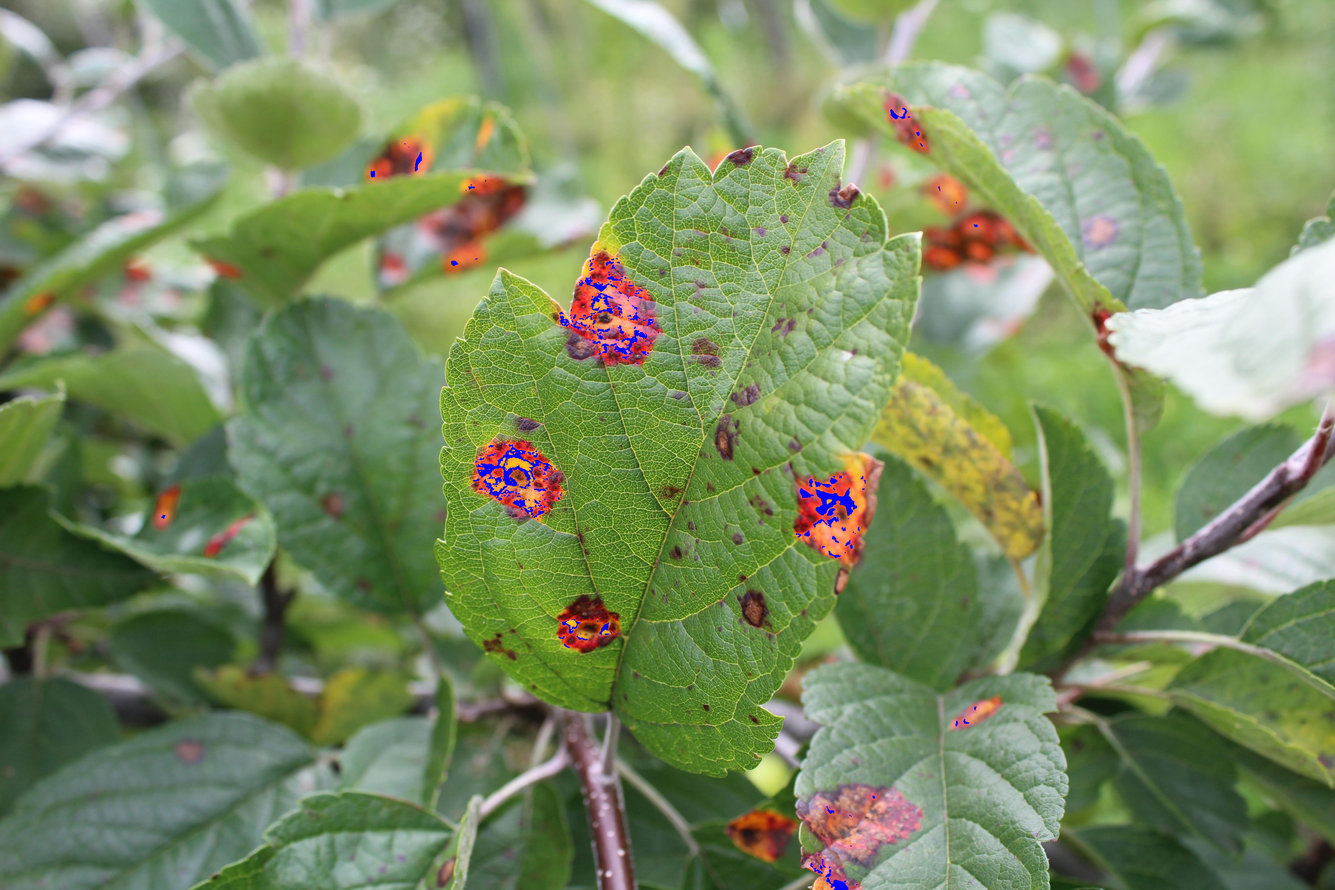
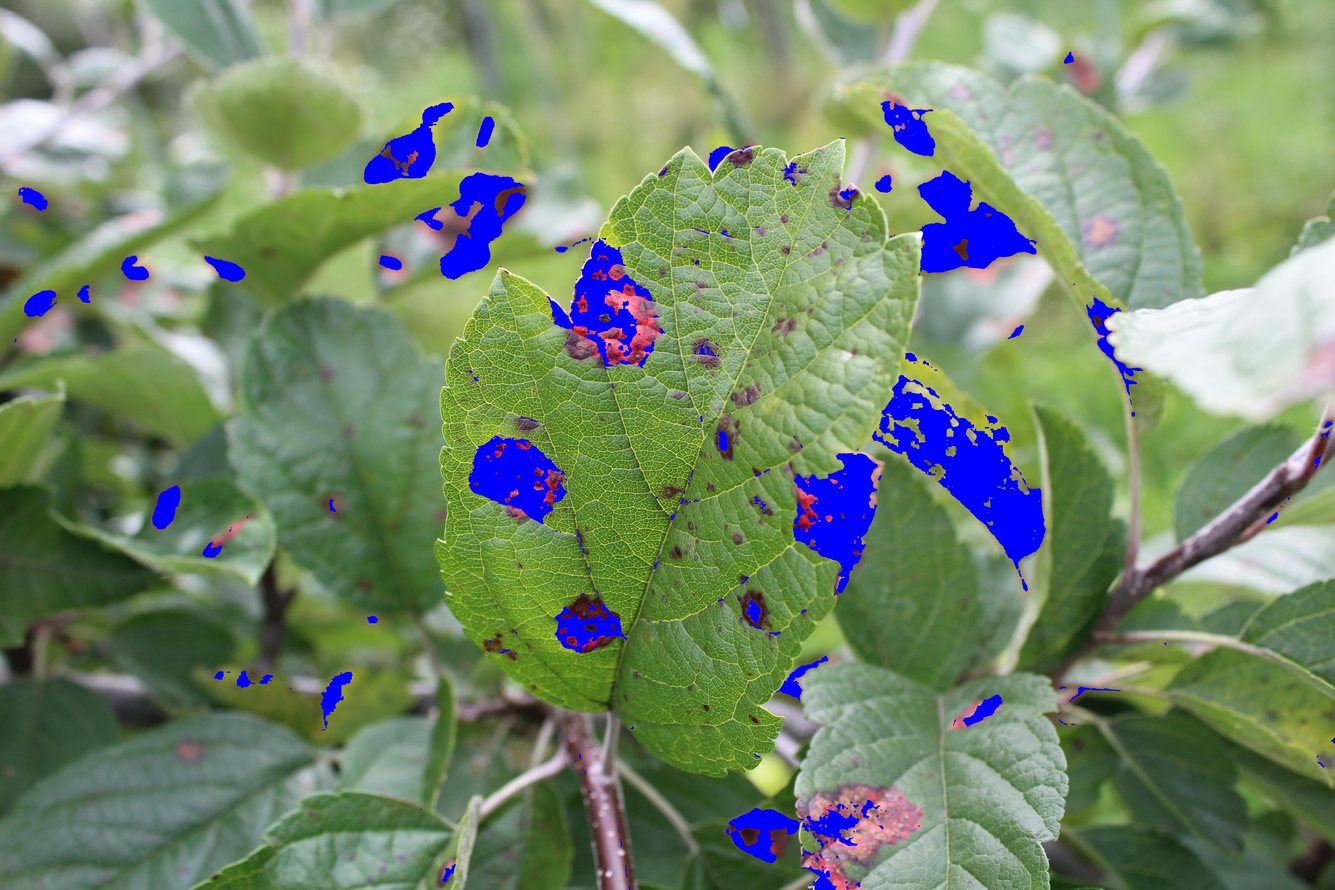
feat: enhance pattern detection with HSV tolerance adjustments and improved image processing

diff --git a/rust_pattern_detector.py b/rust_pattern_detector.py
@@ -6,12 +6,27 @@ from typing import List, Tuple
 class PatternDetector:
     def __init__(self):
         self.patterns: List[Tuple[np.ndarray, np.ndarray]] = []
-        self.tolerance = 30  # Faixa de tolerância para correspondência de cores
+        self.h_tolerance = 10  # Tolerância para matiz (Hue)
+        self.s_tolerance = 50  # Tolerância para saturação (Saturation)
+        self.v_tolerance = 50  # Tolerância para valor (Value)
 
     def add_pattern(self, color: np.ndarray):
-        """Adiciona um novo padrão de cor com faixas de tolerância."""
-        lower_bound = np.clip(color - self.tolerance, 0, 255)
-        upper_bound = np.clip(color + self.tolerance, 0, 255)
+        """Adiciona um novo padrão de cor com faixas de tolerância em HSV."""
+        # Ajusta as tolerâncias para cada canal HSV
+        lower_bound = np.array(
+            [
+                max(0, color[0] - self.h_tolerance),
+                max(0, color[1] - self.s_tolerance),
+                max(0, color[2] - self.v_tolerance),
+            ]
+        )
+        upper_bound = np.array(
+            [
+                min(179, color[0] + self.h_tolerance),  # Hue vai de 0 a 179 no OpenCV
+                min(255, color[1] + self.s_tolerance),
+                min(255, color[2] + self.v_tolerance),
+            ]
+        )
         self.patterns.append((lower_bound, upper_bound))
 
     def select_patterns(self, image_path: str):
@@ -21,21 +36,23 @@ class PatternDetector:
         if img is None:
             raise ValueError(f"Could not read image at {image_path}")
 
-        img_rgb = cv2.cvtColor(img, cv2.COLOR_BGR2RGB)
-        img_viz = img_rgb.copy()
+        img_hsv = cv2.cvtColor(img, cv2.COLOR_BGR2HSV)
+        img_viz = cv2.cvtColor(
+            img, cv2.COLOR_BGR2RGB
+        )  # Para visualização mantém em RGB
 
         def mouse_callback(event, x, y, flags, param):
             if event == cv2.EVENT_LBUTTONDOWN:
                 # Obtém região 5x5 ao redor do ponto clicado
-                region = img_rgb[
-                    max(0, y - 2) : min(y + 3, img_rgb.shape[0]),
-                    max(0, x - 2) : min(x + 3, img_rgb.shape[1]),
+                region = img_hsv[
+                    max(0, y - 2) : min(y + 3, img_hsv.shape[0]),
+                    max(0, x - 2) : min(x + 3, img_hsv.shape[1]),
                 ]
 
                 # Calcula a cor média na região
                 avg_color = np.mean(region, axis=(0, 1)).astype(int)
                 print(
-                    f"Selected pattern RGB values: R={avg_color[0]}, G={avg_color[1]}, B={avg_color[2]}"
+                    f"Selected pattern HSV values: H={avg_color[0]}, S={avg_color[1]}, V={avg_color[2]}"
                 )
 
                 # Adiciona o padrão
@@ -63,7 +80,7 @@ class PatternDetector:
         )
 
         # Mostra a imagem e aguarda entrada do usuário
-        cv2.imshow("Pattern Selection", cv2.cvtColor(img_rgb, cv2.COLOR_RGB2BGR))
+        cv2.imshow("Pattern Selection", cv2.cvtColor(img_viz, cv2.COLOR_RGB2BGR))
         while True:
             key = cv2.waitKey(1) & 0xFF
             if key == ord("q"):
@@ -79,27 +96,25 @@ class PatternDetector:
         if img is None:
             raise ValueError(f"Could not read image at {image_path}")
 
-        img_rgb = cv2.cvtColor(img, cv2.COLOR_BGR2RGB)
-        result = img_rgb.copy()
+        img_hsv = cv2.cvtColor(img, cv2.COLOR_BGR2HSV)
+        result = cv2.cvtColor(img, cv2.COLOR_BGR2RGB)  # Para visualização
 
         # Se nenhum padrão foi selecionado, usa valores padrão de detecção de ferrugem
         if not self.patterns:
             print(
                 "Nenhum padrão selecionado. Usando valores padrão de detecção de ferrugem..."
             )
-            # Converte para o espaço de cores HSV (melhor para segmentação de cores)
-            img_hsv = cv2.cvtColor(img_rgb, cv2.COLOR_RGB2HSV)
-            # Valores padrão de ferrugem do arquivo rust_detection.py
+            # Valores padrão de ferrugem
             lower_rust = np.array([0, 100, 100])
             upper_rust = np.array([30, 255, 255])
             final_mask = cv2.inRange(img_hsv, lower_rust, upper_rust)
         else:
             # Cria uma máscara para detecção usando os padrões selecionados
-            final_mask = np.zeros(img_rgb.shape[:2], dtype=np.uint8)
+            final_mask = np.zeros(img_hsv.shape[:2], dtype=np.uint8)
 
         # Verifica cada padrão
         for lower_bound, upper_bound in self.patterns:
-            mask = cv2.inRange(img_rgb, lower_bound, upper_bound)
+            mask = cv2.inRange(img_hsv, lower_bound, upper_bound)
             final_mask = cv2.bitwise_or(final_mask, mask)
 
         # Aplica operações morfológicas para reduzir ruído
@@ -129,8 +144,18 @@ class PatternDetector:
         cv2.resizeWindow("Result", 800, 600)
         cv2.imshow("Result", result_bgr)
 
-        cv2.waitKey(0)
+        # Aguarda até que uma tecla seja pressionada ou uma janela seja fechada
+        while (
+            cv2.getWindowProperty("Original Image", cv2.WND_PROP_VISIBLE) > 0
+            and cv2.getWindowProperty("Pattern Mask", cv2.WND_PROP_VISIBLE) > 0
+            and cv2.getWindowProperty("Result", cv2.WND_PROP_VISIBLE) > 0
+        ):
+            key = cv2.waitKey(100)  # Verifica a cada 100ms
+            if key != -1:  # Se alguma tecla foi pressionada
+                break
+
         cv2.destroyAllWindows()
+        exit(0)  # Encerra o programa
 
 
 def main():
